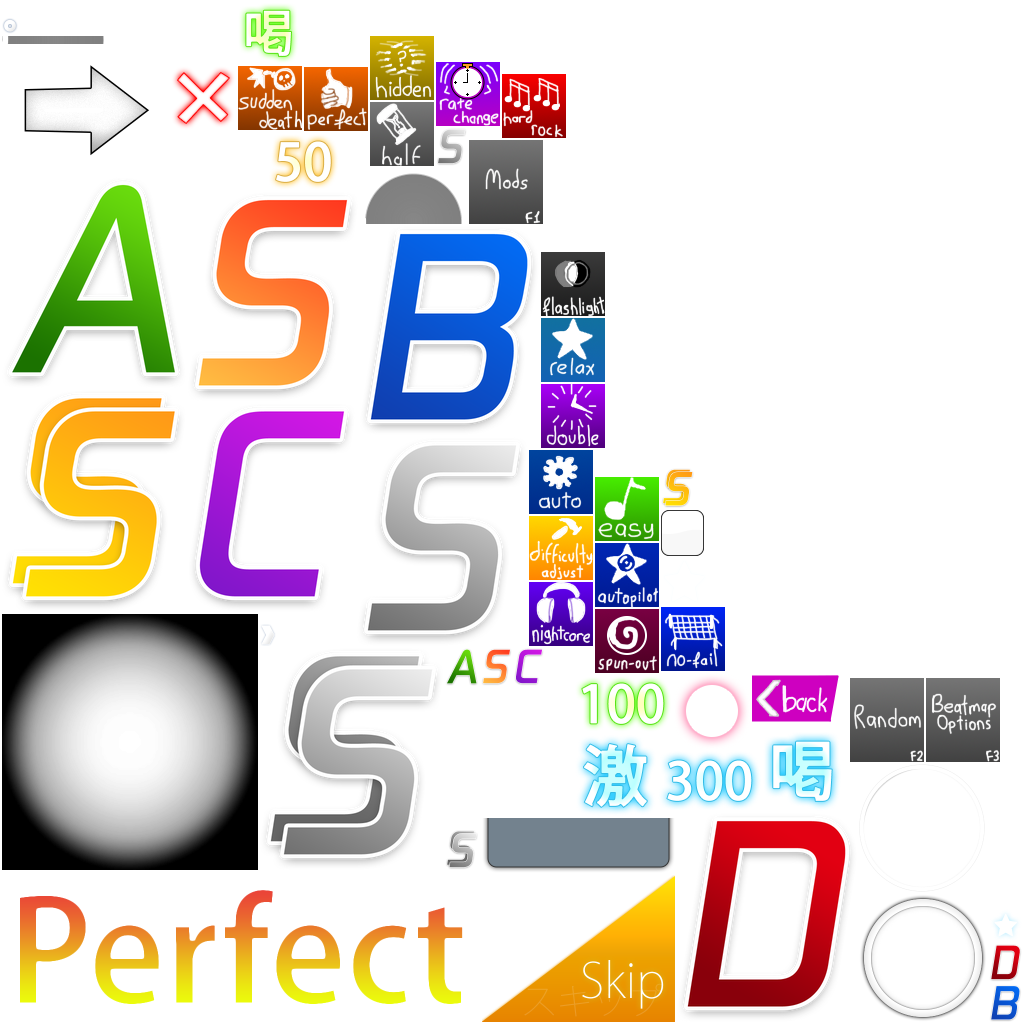
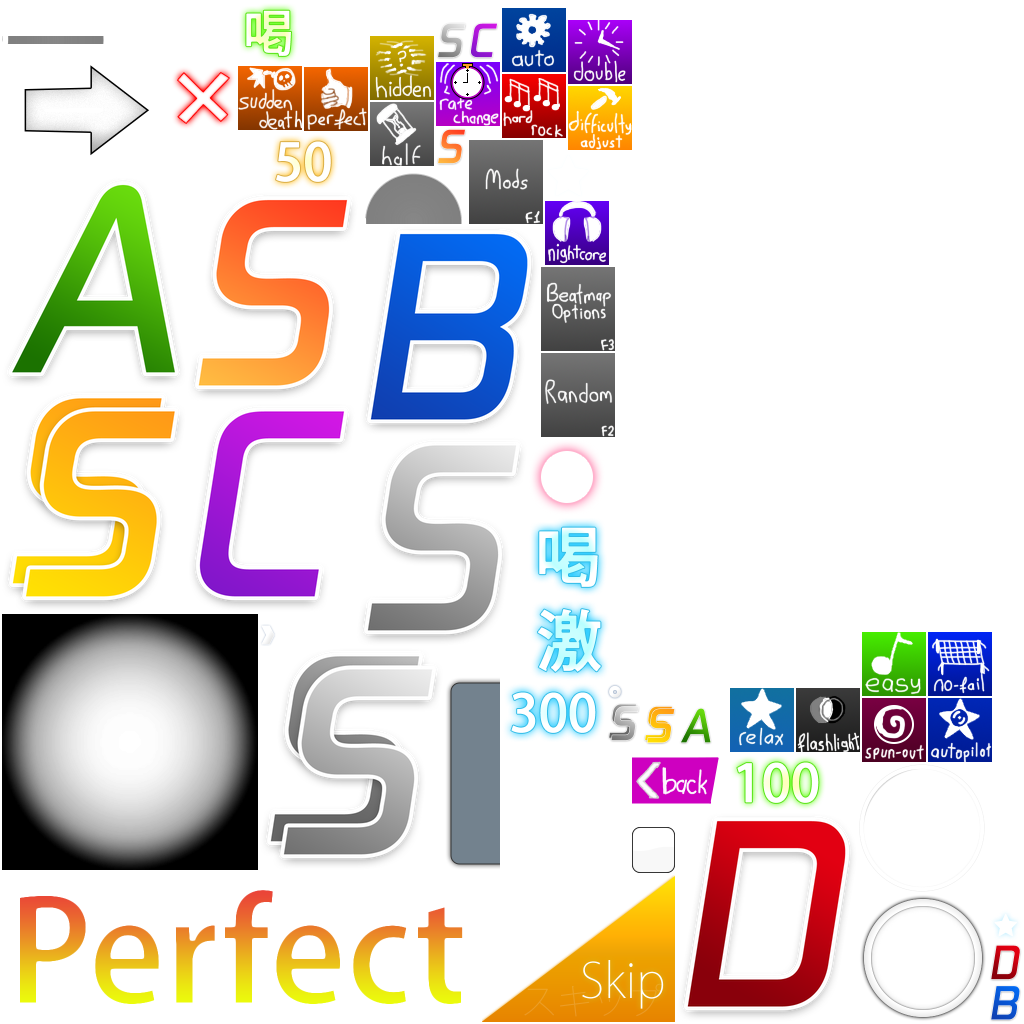
added in-game key overlay

Changed region(s): [[0.4375, 0.1875, 1.0, 0.875], [0.4062, 0.0, 0.625, 0.1562], [0.4062, 0.125, 0.4688, 0.1562]]

diff --git a/src/globals.hpp b/src/globals.hpp
@@ -65,6 +65,8 @@ enum class SPRITE : int {
 	ModRC,
 	ModDA,
 	FLDim,
+	InputBackground,
+	InputKey,
 	Pixel,
 	ButtonMods,
 	ButtonRandom,
@@ -76,63 +78,68 @@ static constexpr struct {
 	const char* name;
 	SPRITE id;
 } atlas_map[] = {
-	{ "cursor.png",				SPRITE::Cursor },
-	{ "hitcircle.png",			SPRITE::HitCircle },
-	{ "hitcircleoverlay.png",	SPRITE::HitCircleOverlay },
-	{ "approachcircle.png",		SPRITE::ApproachCircle },
-	{ "sliderbody.png",			SPRITE::SliderBody },
-	{ "bowl.png",				SPRITE::SliderBowl },
-	{ "reversearrow.png",		SPRITE::ReverseArrow },
-	{ "sliderscorepoint.png",	SPRITE::SliderPoint },
+	{ "cursor.png",					SPRITE::Cursor },
+	{ "hitcircle.png",				SPRITE::HitCircle },
+	{ "hitcircleoverlay.png",		SPRITE::HitCircleOverlay },
+	{ "approachcircle.png",			SPRITE::ApproachCircle },
+	{ "sliderbody.png",				SPRITE::SliderBody },
+	{ "bowl.png",					SPRITE::SliderBowl },
+	{ "reversearrow.png",			SPRITE::ReverseArrow },
+	{ "sliderscorepoint.png",		SPRITE::SliderPoint },
+	 
+	{ "hit0.png",					SPRITE::Result0 },
+	{ "hit50.png",					SPRITE::Result50 },
+	{ "hit100.png",					SPRITE::Result100 },
+	{ "hit100k.png",				SPRITE::Result100k },
+	{ "hit300.png",					SPRITE::Result300 },
+	{ "hit300k.png",				SPRITE::Result300k },
+	{ "hit300g.png",				SPRITE::Result300g },
+	{ "play-skip.png",				SPRITE::ButtonSkip },
+	{ "ranking-perfect.png",		SPRITE::PerfectComboText},
+	{ "ranking-XH-small.png",		SPRITE::RankXHSmall},
+	{ "ranking-X-small.png",		SPRITE::RankXSmall},
+	{ "ranking-SH-small.png",		SPRITE::RankSHSmall},
+	{ "ranking-S-small.png",		SPRITE::RankSSmall},
+	{ "ranking-A-small.png",		SPRITE::RankASmall},
+	{ "ranking-B-small.png",		SPRITE::RankBSmall},
+	{ "ranking-C-small.png",		SPRITE::RankCSmall},
+	{ "ranking-D-small.png",		SPRITE::RankDSmall},
+	{ "ranking-XH_half.png",		SPRITE::RankXH},
+	{ "ranking-X_half.png",			SPRITE::RankX},
+	{ "ranking-SH_half.png",		SPRITE::RankSH},
+	{ "ranking-S_half.png",			SPRITE::RankS},
+	{ "ranking-A_half.png",			SPRITE::RankA},
+	{ "ranking-B_half.png",			SPRITE::RankB},
+	{ "ranking-C_half.png",			SPRITE::RankC},
+	{ "ranking-D_half.png",			SPRITE::RankD},
+	{ "back.png",					SPRITE::Back},
 
-	{ "hit0.png",				SPRITE::Result0 },
-	{ "hit50.png",				SPRITE::Result50 },
-	{ "hit100.png",				SPRITE::Result100 },
-	{ "hit100k.png",			SPRITE::Result100k },
-	{ "hit300.png",				SPRITE::Result300 },
-	{ "hit300k.png",			SPRITE::Result300k },
-	{ "hit300g.png",			SPRITE::Result300g },
-	{ "play-skip.png",			SPRITE::ButtonSkip },
-	{ "ranking-perfect.png",	SPRITE::PerfectComboText},
-	{ "ranking-XH-small.png",	SPRITE::RankXHSmall},
-	{ "ranking-X-small.png",	SPRITE::RankXSmall},
-	{ "ranking-SH-small.png",	SPRITE::RankSHSmall},
-	{ "ranking-S-small.png",	SPRITE::RankSSmall},
-	{ "ranking-A-small.png",	SPRITE::RankASmall},
-	{ "ranking-B-small.png",	SPRITE::RankBSmall},
-	{ "ranking-C-small.png",	SPRITE::RankCSmall},
-	{ "ranking-D-small.png",	SPRITE::RankDSmall},
-	{ "ranking-XH_half.png",	SPRITE::RankXH},
-	{ "ranking-X_half.png",		SPRITE::RankX},
-	{ "ranking-SH_half.png",	SPRITE::RankSH},
-	{ "ranking-S_half.png",		SPRITE::RankS},
-	{ "ranking-A_half.png",		SPRITE::RankA},
-	{ "ranking-B_half.png",		SPRITE::RankB},
-	{ "ranking-C_half.png",		SPRITE::RankC},
-	{ "ranking-D_half.png",		SPRITE::RankD},
-	{ "back.png",				SPRITE::Back},
+	{ "auto.png",					SPRITE::ModAT},
+	{ "spunout.png",				SPRITE::ModSO},
+	{ "easy.png",					SPRITE::ModEZ},
+	{ "nofail.png",					SPRITE::ModNF},
+	{ "halftime.png",				SPRITE::ModHT},
+	{ "hardrock.png",				SPRITE::ModHR},
+	{ "suddendeath.png",			SPRITE::ModSD},
+	{ "perfect.png",				SPRITE::ModPF},
+	{ "doubletime.png",				SPRITE::ModDT},
+	{ "nightcore.png",				SPRITE::ModNC},
+	{ "hidden.png",					SPRITE::ModHD},
+	{ "autopilot.png",				SPRITE::ModAP},
+	{ "relax.png",					SPRITE::ModRX},
+	{ "flashlight.png",				SPRITE::ModFL},
+	{ "ratechange.png",				SPRITE::ModRC},
+	{ "difficultyadjust.png",		SPRITE::ModDA},
+	{ "b_mods.png",					SPRITE::ButtonMods},
+	{ "b_random.png",				SPRITE::ButtonRandom},
+	{ "b_beatmap.png",				SPRITE::ButtonBeatmapOptions},
 
-	{ "auto.png",				SPRITE::ModAT},
-	{ "spunout.png",			SPRITE::ModSO},
-	{ "easy.png",				SPRITE::ModEZ},
-	{ "nofail.png",				SPRITE::ModNF},
-	{ "halftime.png",			SPRITE::ModHT},
-	{ "hardrock.png",			SPRITE::ModHR},
-	{ "suddendeath.png",		SPRITE::ModSD},
-	{ "perfect.png",			SPRITE::ModPF},
-	{ "doubletime.png",			SPRITE::ModDT},
-	{ "nightcore.png",			SPRITE::ModNC},
-	{ "hidden.png",				SPRITE::ModHD},
-	{ "autopilot.png",			SPRITE::ModAP},
-	{ "relax.png",				SPRITE::ModRX},
-	{ "flashlight.png",			SPRITE::ModFL},
-	{ "ratechange.png",			SPRITE::ModRC},
-	{ "difficultyadjust.png",	SPRITE::ModDA},
-	{ "b_mods.png",				SPRITE::ButtonMods},
-	{ "b_random.png",			SPRITE::ButtonRandom},
-	{ "b_beatmap.png",			SPRITE::ButtonBeatmapOptions},
+	{ "fl_dim.png",					SPRITE::FLDim},
+	
+	{ "inputoverlay-background.png",SPRITE::InputBackground},
+	{ "inputoverlay-key.png",		SPRITE::InputKey},
 
-	{ "fl_dim.png",				SPRITE::FLDim},
+	
 
 	
 	{ "whitepixel.png",			SPRITE::Pixel}

diff --git a/src/ingame.cpp b/src/ingame.cpp
@@ -734,11 +734,12 @@ ingame::ingame(file_struct map, std::array<bool, (int)MODS::COUNT> sel_mods) {
 	float drain_time = float(hit_objects.back().time - hit_objects[0].time) / 1000.0f;
 
 	difficulty_multiplier = (int)std::round((map_info.hp + map_info.cs + map_info.od + std::clamp((float)total_hit_objects / drain_time * 8.0f, 0.0f, 16.0f)) / 38.0f * 5.0f);
-
+	for(int i = 0; i < 4; i++)
+		taps_str_x[i] = screen_width - 26.f * screen_height_ratio - (MeasureTextEx(aller_r, taps_str[i].c_str(), 18.f * screen_height_ratio, 0).x) / 2;
     std::cout << "Map loaded: " << circle_cnt << " circles, " << slider_cnt << " sliders, " << spinner_cnt << " spinners.\n" << "Max combo: " << total_max_combo << "\n";
 }
 
-static void play_hitsound(uint8_t snd, uint8_t volume) {
+void ingame::play_hitsound(uint8_t snd, uint8_t volume) {
 
 	std::string type;
 	switch ((snd >> 4)) {
@@ -953,6 +954,11 @@ void ingame::check_hit(bool notelock_check) {
 	}
 }
 
+void ingame::update_keys(int i) {
+	taps[i]++;
+	taps_str[i] = std::to_string(taps[i]);
+	taps_str_x[i] = screen_width - 26.f * screen_height_ratio - (MeasureTextEx(aller_r, taps_str[i].c_str(), 18.f * screen_height_ratio, 0).x) / 2;
+}
 
 void ingame::update() {
 
@@ -1122,12 +1128,14 @@ void ingame::update() {
 		update_object_jmp: // do all this for the 2 objects to prevent notelock
 
 			if (IsKeyPressed(key_1)) {
+				if(check_cnt < 1) update_keys(0);
 				if (!key1_down) {
 					check_hit(bool(check_cnt));
 					key1_down = true;
 				}
 			}
 			if (IsKeyPressed(key_2)) {
+				if (check_cnt < 1) update_keys(1);
 				if (!key2_down) {
 					key2_down = true;
 					check_hit(bool(check_cnt));
@@ -1135,11 +1143,15 @@ void ingame::update() {
 			}
 			if (settings_ingame_mouse_buttons) {
 				if (m1_pressed && !key1_down) {
+					update_keys(2);
 					key1_down = true;
+					m1_down = true;
 					check_hit(bool(check_cnt));
 				}
 				if (m2_pressed && !key2_down) {
+					update_keys(3);
 					key2_down = true;
+					m2_down = true;
 					check_hit(bool(check_cnt));
 				}
 			}
@@ -1152,9 +1164,11 @@ void ingame::update() {
 			if (settings_ingame_mouse_buttons) {
 				if (m1_released) {
 					key1_down = false;
+					m1_down = true;
 				}
 				if (m2_released) {
 					key2_down = false;
+					m2_down = false;
 				}
 			}
 			HitObjectEntry ho;
@@ -1696,7 +1710,8 @@ void ingame::draw() {
 		}
 	}
 	
-	// apply flashlight effects
+	// Apply flashlight effects
+
 	if (mods[(int)MODS::FL]) {
 		flashlight_pos_target = cursor;
 
@@ -1731,6 +1746,23 @@ void ingame::draw() {
 	// --- Draw UI ---
 
 	if (settings_render_ingame_ui) {
+		// Draw key overlay
+		if (settings_render_key_overlay) {
+
+			DrawTexturePro(atlas, tex[(int)SPRITE::InputBackground], { screen_width - 50.f * screen_height_ratio, 330.f * screen_height_ratio, 50.f * screen_height_ratio, 190.f * screen_height_ratio }, { 0.f, 0.f }, 0.f, WHITE);
+			Color c = WHITE;
+			Rectangle rect = { screen_width - 50.f * screen_height_ratio, 282.f * screen_height_ratio, 44.f * screen_height_ratio, 44.f * screen_height_ratio };
+			for (int i = 0; i < 4; i++) {
+				if (*tap_variables[i]) c = { 253, 223, 0, 255 };
+				else c = WHITE;
+				rect.y += 48.f * screen_height_ratio;
+				DrawTexturePro(atlas, tex[(int)SPRITE::InputKey], { rect }, { 0.f, 0.f }, 0.0f, c);
+				DrawTextPro(aller_r, taps_str[i].c_str(), {taps_str_x[i], rect.y + rect.height * 0.25f}, {0.f, 0.f}, 0.0f, 18.f * screen_height_ratio, 0, BLACK);
+			}
+		}
+
+
+		// Draw combo, score, acc
 		DrawTextEx(aller_r, (std::to_string(combo) + "x").c_str(), { 0, (screen_height - screen_height / 16.0f) }, 48 * screen_height_ratio, 0, WHITE);
 
 		std::string score_str = get_score_string(score);
@@ -1742,7 +1774,6 @@ void ingame::draw() {
 		DrawTextEx(aller_r, acc_str.c_str(), { (screen_width - acc_text_length), 48 * screen_height_ratio }, 48.0f * screen_height_ratio, 0, WHITE);
 
 		// Draw UR bar
-
 		if (settings_display_ur_bar) {
 			float scw_h = screen_width / 2;
 			float mult_w = ur_bar_size * screen_width_ratio;

diff --git a/src/ingame.hpp b/src/ingame.hpp
@@ -96,12 +96,14 @@ public:
 	void update();
 	void draw();
 
-	
 private:
 	inline void object_hit(const HitObjectEntry& pos, const HitResult res);
 	inline void recalculate_score_acc(const HitResult res);
 	inline void combo_break();
 	inline void add_unstable_rate_data(float ur);
+	inline void update_keys(int i);
+	inline void play_hitsound(uint8_t snd, uint8_t volume);
+
 	void check_hit(bool notelock_check);
 
 	bool paused = false;
@@ -137,6 +139,11 @@ private:
 
 	float scaled_playfield_size_w = 512.0f * playfield_scale;
 	float scaled_playfield_size_h = 384.0f * playfield_scale;
+
+	std::array<int, 4> taps = { 0, 0, 0, 0 };
+	std::array<float, 4> taps_str_x = { 0.f, 0.f, 0.f, 0.f };
+	std::array<std::string, 4> taps_str = { std::string("K1"), std::string("K2"), std::string("M1"), std::string("M2") };
+	std::array<bool*, 4> tap_variables = { &key1_down, &key2_down, &m1_down, &m2_down };
 
 	uint32_t score = 0;
 	uint32_t combo = 0;
